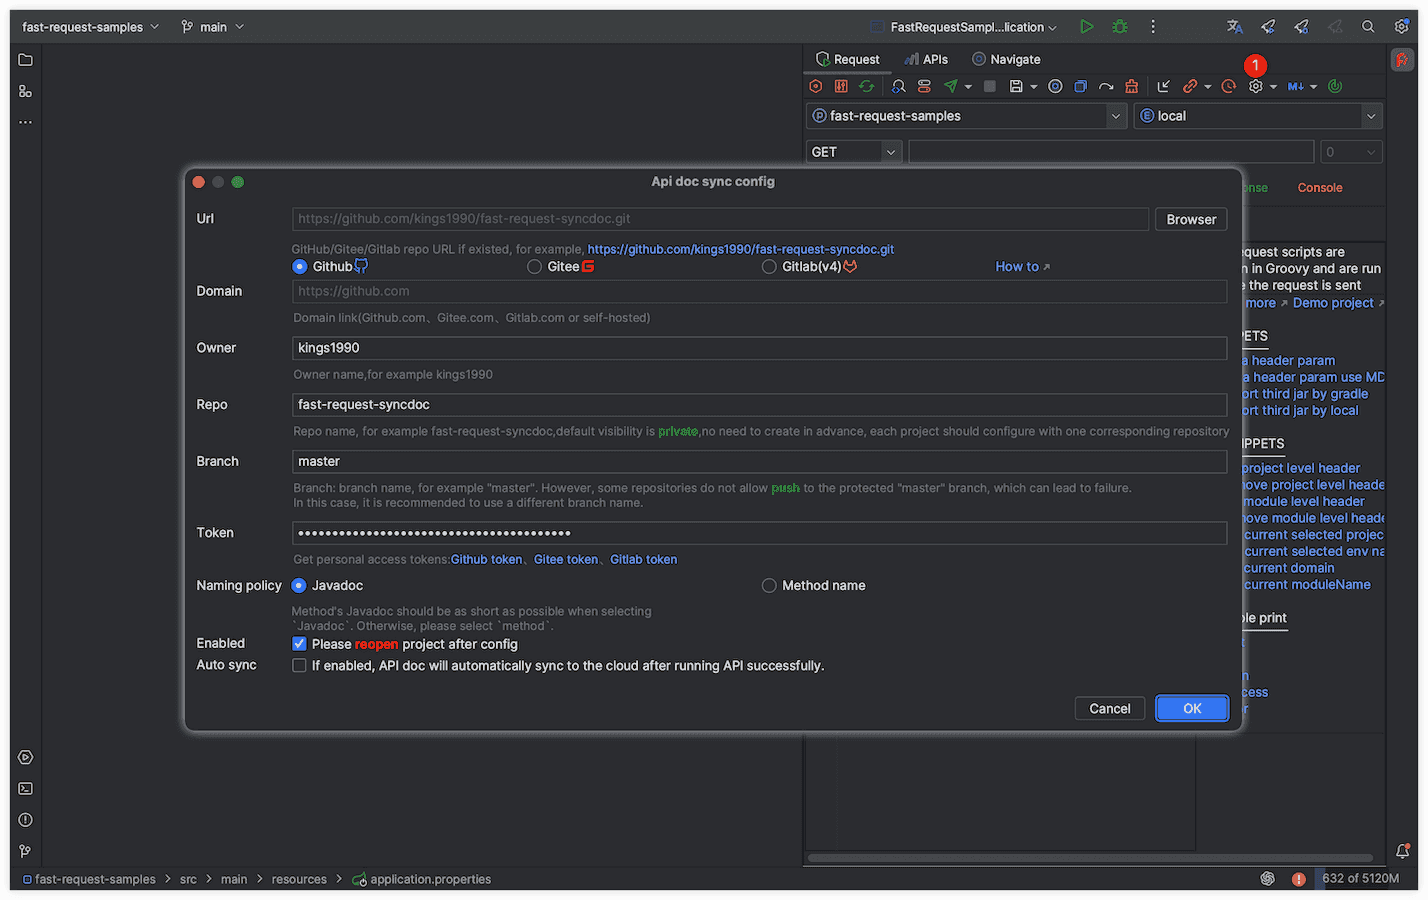
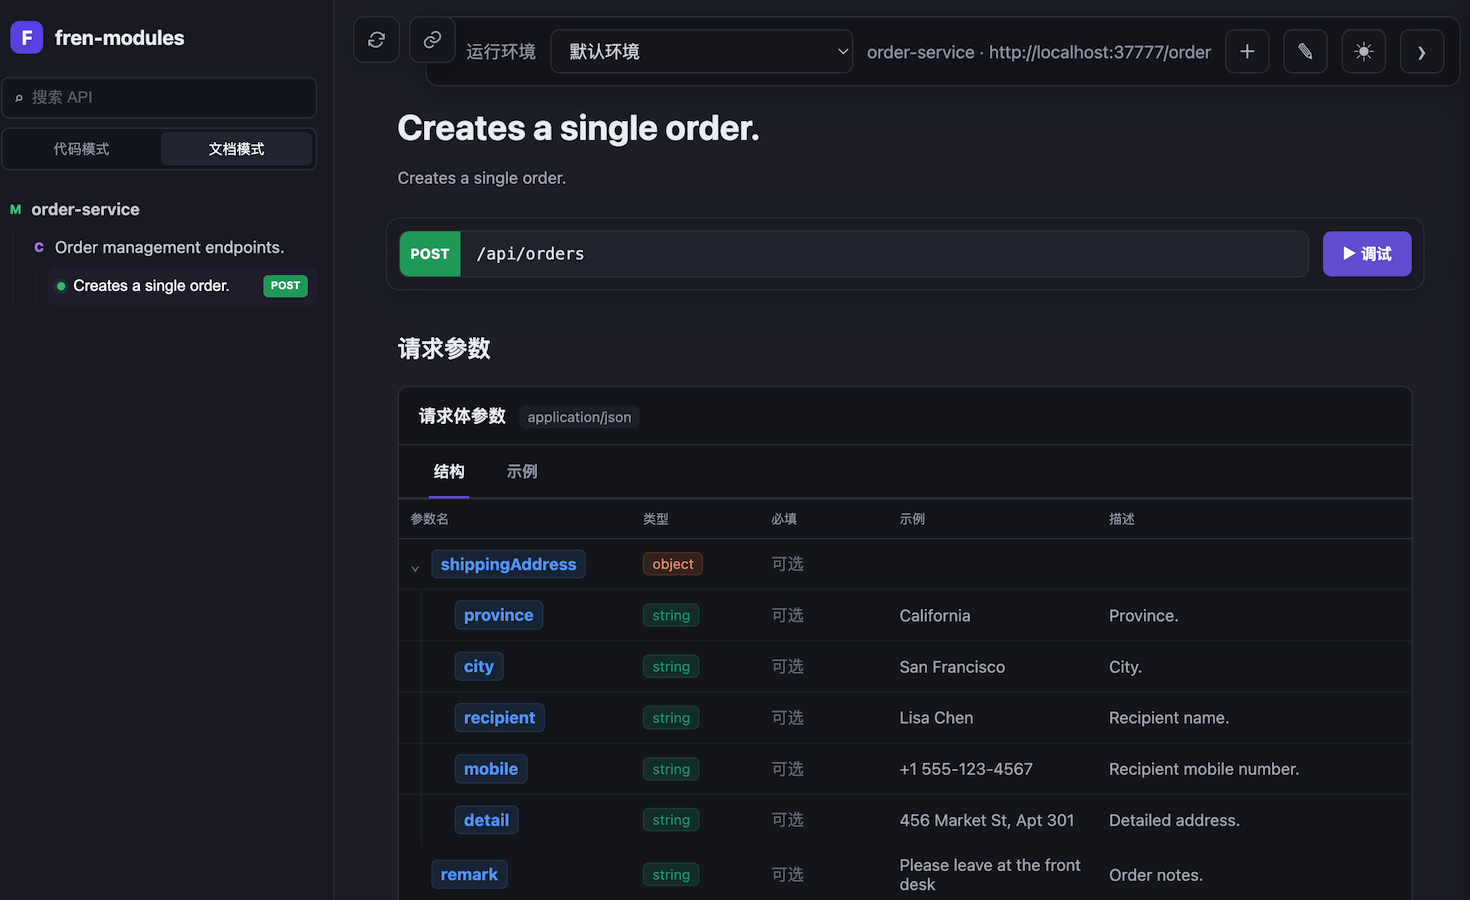
doc 2026.1.1

diff --git a/docs/.vuepress/public/html/showsideNew_en.html b/docs/.vuepress/public/html/showsideNew_en.html
@@ -116,11 +116,12 @@
       <!-- 添加图片容器 -->
       <div class="image-container">
         <img src="/img/index/0.png" data-index="0" class="active show" />
-        <img src="/img/index/2.png" data-index="1" />
-        <img src="/img/index/3.png" data-index="2" />
-        <img src="/img/index/4.png" data-index="3" />
-        <img src="/img/index/5.png" data-index="4" />
-        <img src="/img/index/6.png" data-index="5" />
+          <img src="/img/index/7.png" data-index="1" />  
+        <img src="/img/index/2.png" data-index="2" />
+        <img src="/img/index/3.png" data-index="3" />
+        <img src="/img/index/4.png" data-index="4" />
+        <img src="/img/index/5.png" data-index="5" />
+        <img src="/img/index/6.png" data-index="6" />
       </div>
     </div>
 
@@ -135,7 +136,14 @@
           </div>
         </div>
 
-        <div class="item" data-index="1">
+          <div class="item" data-index="1">
+              <div class="title">AI Parameter Generation</div>
+              <div class="content">
+                  After integrating the AI API, it generates contextually appropriate parameter values.
+              </div>
+          </div>
+
+        <div class="item" data-index="2">
           <div class="title">SearchEveryWhere</div>
           <div class="content">
             Quickly search APIs based on Module, Method, Library, Comments, and
@@ -143,7 +151,7 @@
           </div>
         </div>
 
-        <div class="item" data-index="2">
+        <div class="item" data-index="3">
           <div class="title">APIs</div>
           <div class="content">
             Listed the saved APIs, which can be searched according to the
@@ -152,7 +160,7 @@
           </div>
         </div>
 
-        <div class="item" data-index="3">
+        <div class="item" data-index="4">
           <div class="title">Script</div>
           <div class="content">
             Groovy scripts support, which can be used to write pre/post scripts
@@ -161,19 +169,17 @@
           </div>
         </div>
 
-        <div class="item" data-index="4">
+        <div class="item" data-index="5">
           <div class="title">Auto domain</div>
           <div class="content">
             Automatically recognize properties and yml files to form a local
             domain name, reducing manual operations.
           </div>
         </div>
-        <div class="item" data-index="5">
-          <div class="title">API doc sycn</div>
+        <div class="item" data-index="6">
+          <div class="title">Online Documentation</div>
           <div class="content">
-            API documents can be synchronized to Github, Gitlab, and Gitee
-            repositories, and automatic synchronization after running APIs, this
-            allowing developers to share API documents
+            After saving the API, you can preview the documentation locally or on the LAN.
           </div>
         </div>
       </div>

diff --git a/docs/.vuepress/public/html/showsideNew.html b/docs/.vuepress/public/html/showsideNew.html
@@ -113,11 +113,13 @@
       <!-- 添加图片容器 -->
       <div class="image-container">
         <img src="/img/index/0.png" data-index="0" class="active show" />
-        <img src="/img/index/2.png" data-index="1" />
-        <img src="/img/index/3.png" data-index="2" />
-        <img src="/img/index/4.png" data-index="3" />
-        <img src="/img/index/5.png" data-index="4" />
-        <img src="/img/index/6.png" data-index="5" />
+        <img src="/img/index/7.png" data-index="1" />
+        <img src="/img/index/2.png" data-index="2" />
+        <img src="/img/index/3.png" data-index="3" />
+        <img src="/img/index/4.png" data-index="4" />
+        <img src="/img/index/5.png" data-index="5" />
+        <img src="/img/index/6.png" data-index="6" />
+        
       </div>
     </div>
 
@@ -132,13 +134,22 @@
         </div>
 
         <div class="item" data-index="1">
+              <div class="title">AI 参数生成</div>
+              <div class="content">
+                  接入 AI API 之后生成符合上下文的参数值
+              </div>
+          </div>
+          
+        <div class="item" data-index="2">
           <div class="title">SearchEveryWhere</div>
           <div class="content">
             根据 Module、Method、Library、注释等快速地搜索 API
           </div>
         </div>
 
-        <div class="item" data-index="2">
+          
+          
+        <div class="item" data-index="3">
           <div class="title">APIs</div>
           <div class="content">
             列举了保存后的 API，可以按策略进行搜索，也可以快速定位到 API
@@ -146,7 +157,7 @@
           </div>
         </div>
 
-        <div class="item" data-index="3">
+        <div class="item" data-index="4">
           <div class="title">脚本支持</div>
           <div class="content">
             加入了 Groovy 脚本支持，可以用来写前置脚本或者后置脚本，灵活地修改
@@ -154,19 +165,19 @@
           </div>
         </div>
 
-        <div class="item" data-index="4">
+        <div class="item" data-index="5">
           <div class="title">自动域名</div>
           <div class="content">
             自动识别 properties、yml 文件，形成本地域名，减少手动操作
           </div>
         </div>
-        <div class="item" data-index="5">
-          <div class="title">API 文档同步</div>
+        <div class="item" data-index="6">
+          <div class="title">在线文档</div>
           <div class="content">
-            可以将 API 文档同步至 Github、Gitlab、Gitee 仓库，支持运行 API
-            后自动同步，让开发者可以共享 API 文档
+            保存 API 后本地/局域网支持预览文档
           </div>
         </div>
+         
       </div>
     </div>
   </div>

diff --git a/docs/en/guide/features/README.md b/docs/en/guide/features/README.md
@@ -8,14 +8,11 @@ The icon in the document corresponds to the button icon in the plugin
 
 ![toolwindow](/img/toolwindowNew_en.png)
 
-## 2026.1.1 Highlights
+## Request
 
 - [<ColorIcon icon="doc" /> Online Document](./onlineDocument.md)
 - [<ColorIcon icon="openai" /> AI Parameter Optimization](./aiParameterOptimization.md)
-- [<ColorIcon icon="settings" /> AI Settings Update](./ai.md#_2026-1-1-ai-settings-update)
-- [<ColorIcon icon="apis" /> Batch API Generation](./batchGenerateApi.md)
-
-## Request
+- [<ColorIcon icon="settings" /> AI](./ai.md#_2026-1-1-ai-settings-update)
 
 - [<ColorIcon icon="restfulFastRequest" /> Make icon move](./makeIconMove.md)
 - [<ColorIcon icon="customToolbar" /> Custom toolbar](./customToolbar.md)
@@ -58,7 +55,6 @@ The icon in the document corresponds to the button icon in the plugin
 ---
 
 - [<ColorIcon icon="restfulFastRequest" /> Auto domain](./autoDomain.md)
-- [<ColorIcon icon="openai" /> AI](./ai.md)
 - [<ColorIcon icon="headerGroupNew" /> Header group](./headerGroup.md)
 - [<ColorIcon icon="commonHeaderNew" /> Common header](./commonHeader.md)
 - [<ColorIcon icon="headersPreset" /> Headers Preset](./headersPreset.md)
@@ -87,6 +83,7 @@ The icon in the document corresponds to the button icon in the plugin
 
 ## Generate
 
+- [<ColorIcon icon="apis" /> Batch API Generation](./batchGenerateApi.md)
 - [<ColorIcon icon="swagger" /> Swagger default value parsing support](./swaggerDefaultValueParse.md)
 - [<ColorIcon icon="java" /> Auto Description](./autoDescription.md)
 

diff --git a/docs/guide/features/README.md b/docs/guide/features/README.md
@@ -8,14 +8,11 @@ icon: featuresNew
 
 ![toolwindowNew](/img/toolwindowNew.png)
 
-## 2026.1.1 重点功能
+## Request
 
 - [<ColorIcon icon="doc" /> 在线文档](./onlineDocument.md)
 - [<ColorIcon icon="openai" /> AI 参数智能优化](./aiParameterOptimization.md)
-- [<ColorIcon icon="settings" /> AI 设置升级](./ai.md#_2026-1-1-ai-设置升级)
-- [<ColorIcon icon="apis" /> 批量生成 API](./batchGenerateApi.md)
-
-## Request
+- [<ColorIcon icon="settings" /> AI](./ai.md#_2026-1-1-ai-设置升级)
 
 - [<ColorIcon icon="restfulFastRequest" /> 让图标动起来](./makeIconMove.md)
 - [<ColorIcon icon="customToolbar" /> 自定义工具栏](./customToolbar.md)
@@ -58,7 +55,6 @@ icon: featuresNew
 ---
 
 - [<ColorIcon icon="restfulFastRequest" /> 自动域名](./autoDomain.md)
-- [<ColorIcon icon="openai" /> AI](./ai.md)
 - [<ColorIcon icon="headerGroupNew" /> Headers 分组](./headerGroup.md)
 - [<ColorIcon icon="commonHeaderNew" /> 常用头参数](./commonHeader.md)
 - [<ColorIcon icon="headersPreset" /> Headers 预设](./headersPreset.md)
@@ -87,6 +83,7 @@ icon: featuresNew
 
 ## Generate
 
+- [<ColorIcon icon="apis" /> 批量生成 API](./batchGenerateApi.md)
 - [<ColorIcon icon="swagger" /> Swagger 默认值](./swaggerDefaultValueParse.md)
 - [<ColorIcon icon="java" /> API 自动生成注释](./autoDescription.md)
 

diff --git a/docs/en/compare.snippet.md b/docs/en/compare.snippet.md
@@ -23,7 +23,10 @@
 - [x] [<ColorIcon icon="restfulFastRequest" /> Team work support](/en/guide/teamwork.md)
 - [x] [<ColorIcon icon="restfulFastRequest" /> Funny icon](/en/guide/features/makeIconMove.md)
 - [x] [<ColorIcon icon="scriptNew" /> Script](/en/guide/features/script.md)
-- [x] [<ColorIcon icon="openai" /> OpenAI API Optimizing fields](/en/guide/features/ai.md)
+- [x] [<ColorIcon icon="doc" /> Online Document](/en/guide/features/onlineDocument.md)
+- [x] [<ColorIcon icon="openai" /> AI Parameter Optimization](/en/guide/features/aiParameterOptimization.md)
+- [x] [<ColorIcon icon="settings" /> AI](/en/guide/features/ai.md)
+- [x] [<ColorIcon icon="apis" /> Batch API Generation](/en/guide/features/batchGenerateApi.md)
 - [x] [<ColorIcon icon="quanjucanshu" /> Project-level config](/en/guide/features/projectValueConfig.md)
 - [x] [<ColorIcon icon="environment" /> Environment](/en/guide/features/environment.md)
 - [x] [<ColorIcon icon="function" /> Function](/en/guide/features/function.md)

diff --git a/docs/compare.snippet.md b/docs/compare.snippet.md
@@ -24,7 +24,10 @@
 - [x] [<ColorIcon icon="restfulFastRequest" /> 团队协作](/guide/teamwork.md)
 - [x] [<ColorIcon icon="restfulFastRequest" /> 动态图标](/guide/features/makeIconMove.md)
 - [x] [<ColorIcon icon="scriptNew" /> 脚本支持](/guide/features/script.md)
-- [x] [<ColorIcon icon="openai" /> AI 字段替换](/guide/features/ai.md)
+- [x] [<ColorIcon icon="doc" /> 在线文档](/guide/features/onlineDocument.md)
+- [x] [<ColorIcon icon="openai" /> AI 参数智能优化](/guide/features/aiParameterOptimization.md)
+- [x] [<ColorIcon icon="settings" /> AI](/guide/features/ai.md)
+- [x] [<ColorIcon icon="apis" /> 批量生成 API](/guide/features/batchGenerateApi.md)
 - [x] [<ColorIcon icon="quanjucanshu" /> 项目级别全局参数支持](/guide/features/projectValueConfig.md)
 - [x] [<ColorIcon icon="environment" /> Environment](/guide/features/environment.md)
 - [x] [<ColorIcon icon="function" /> 函数](/guide/features/function.md)
